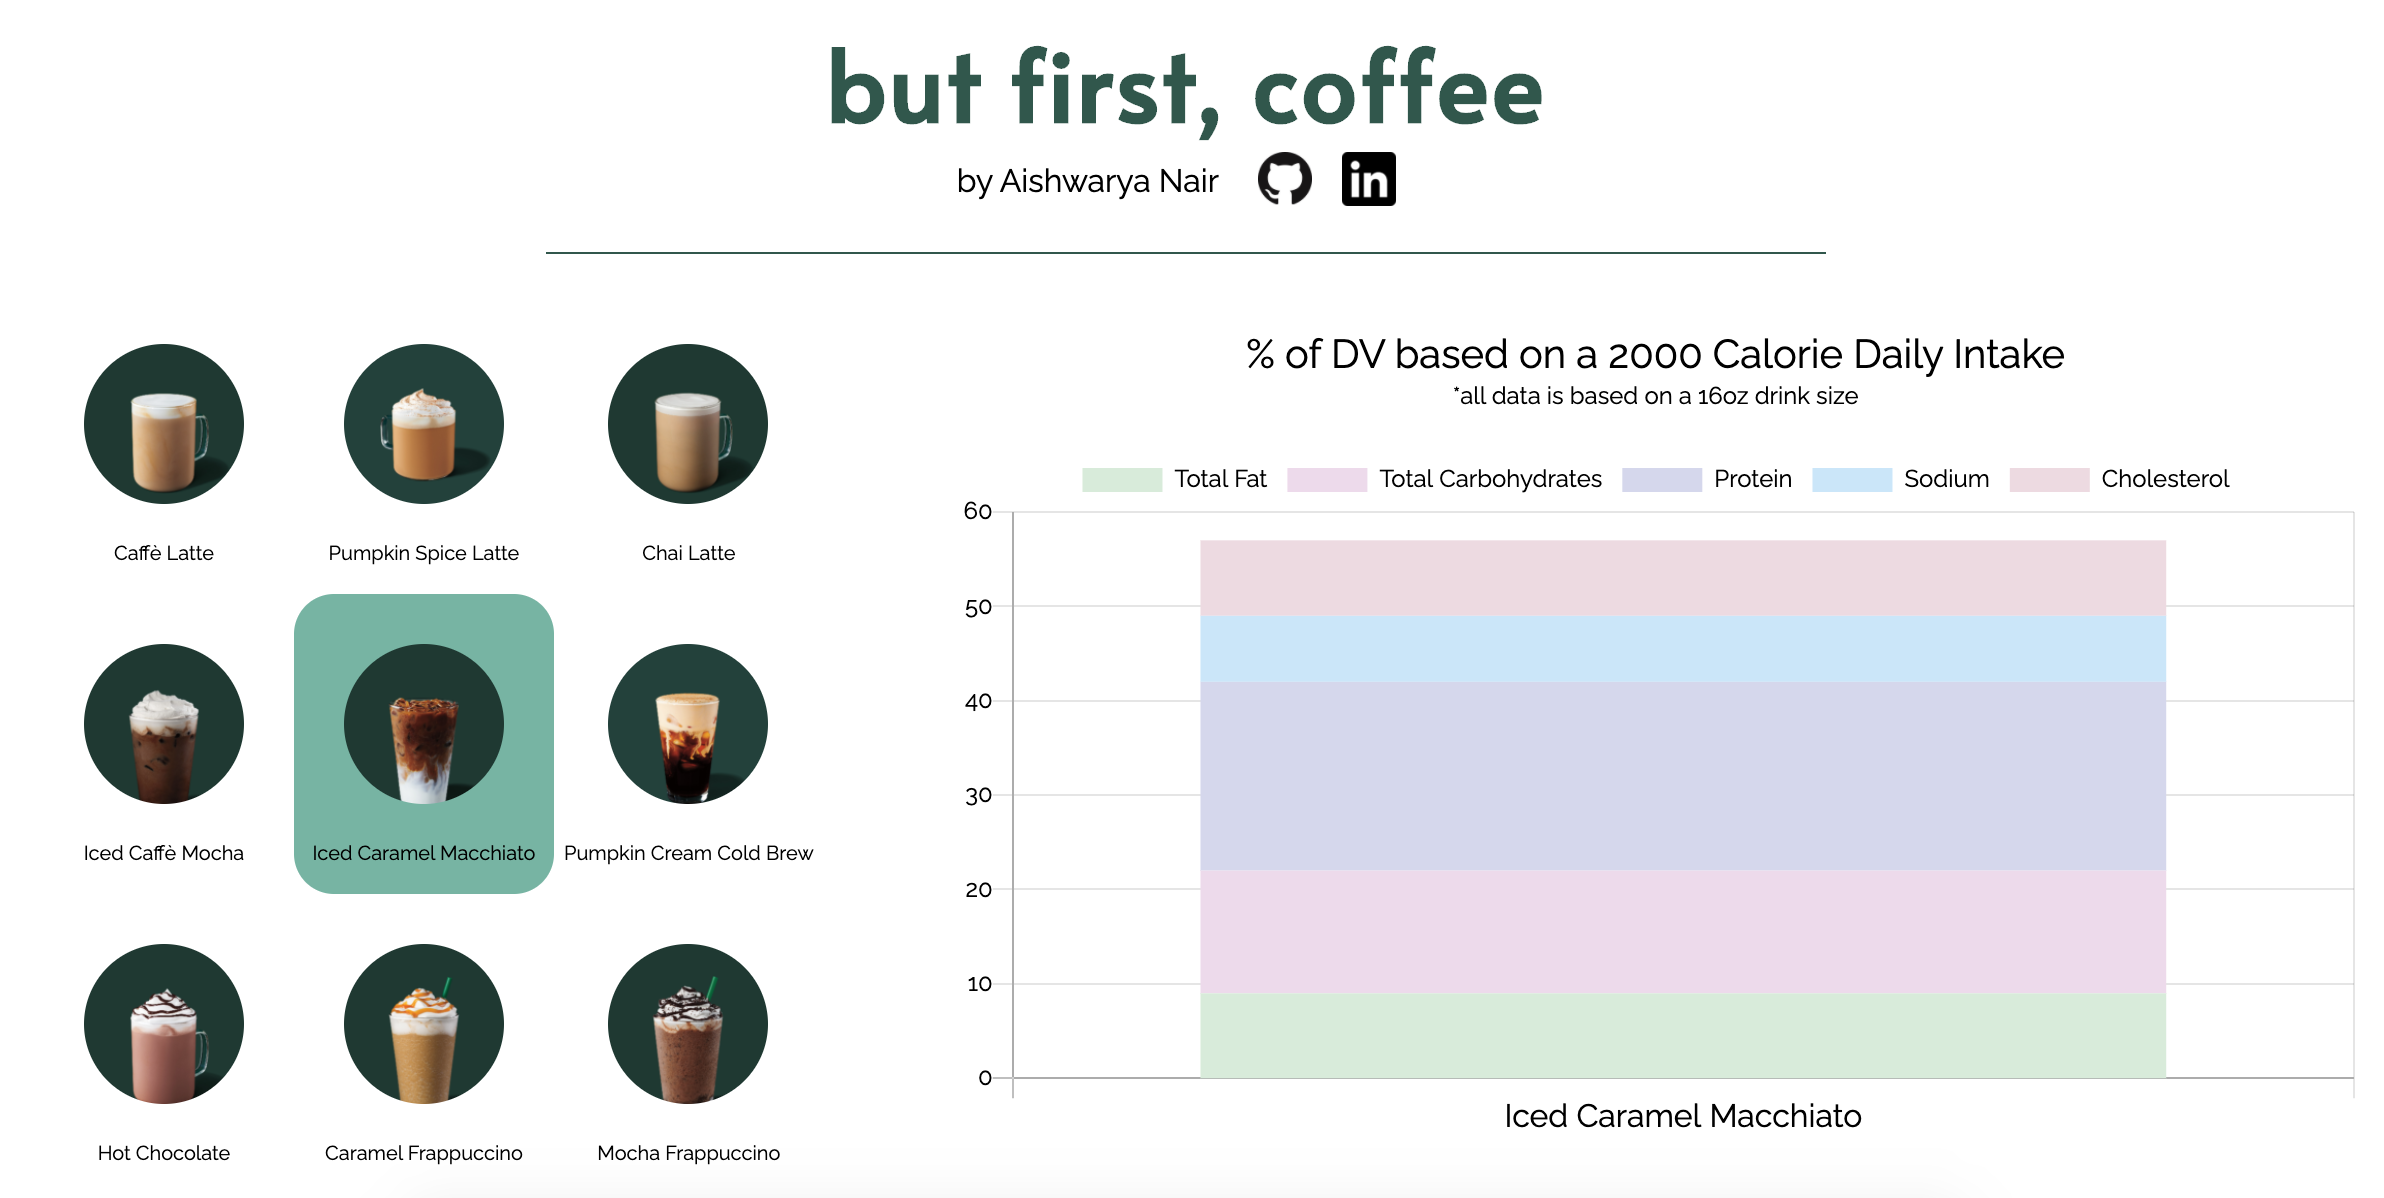
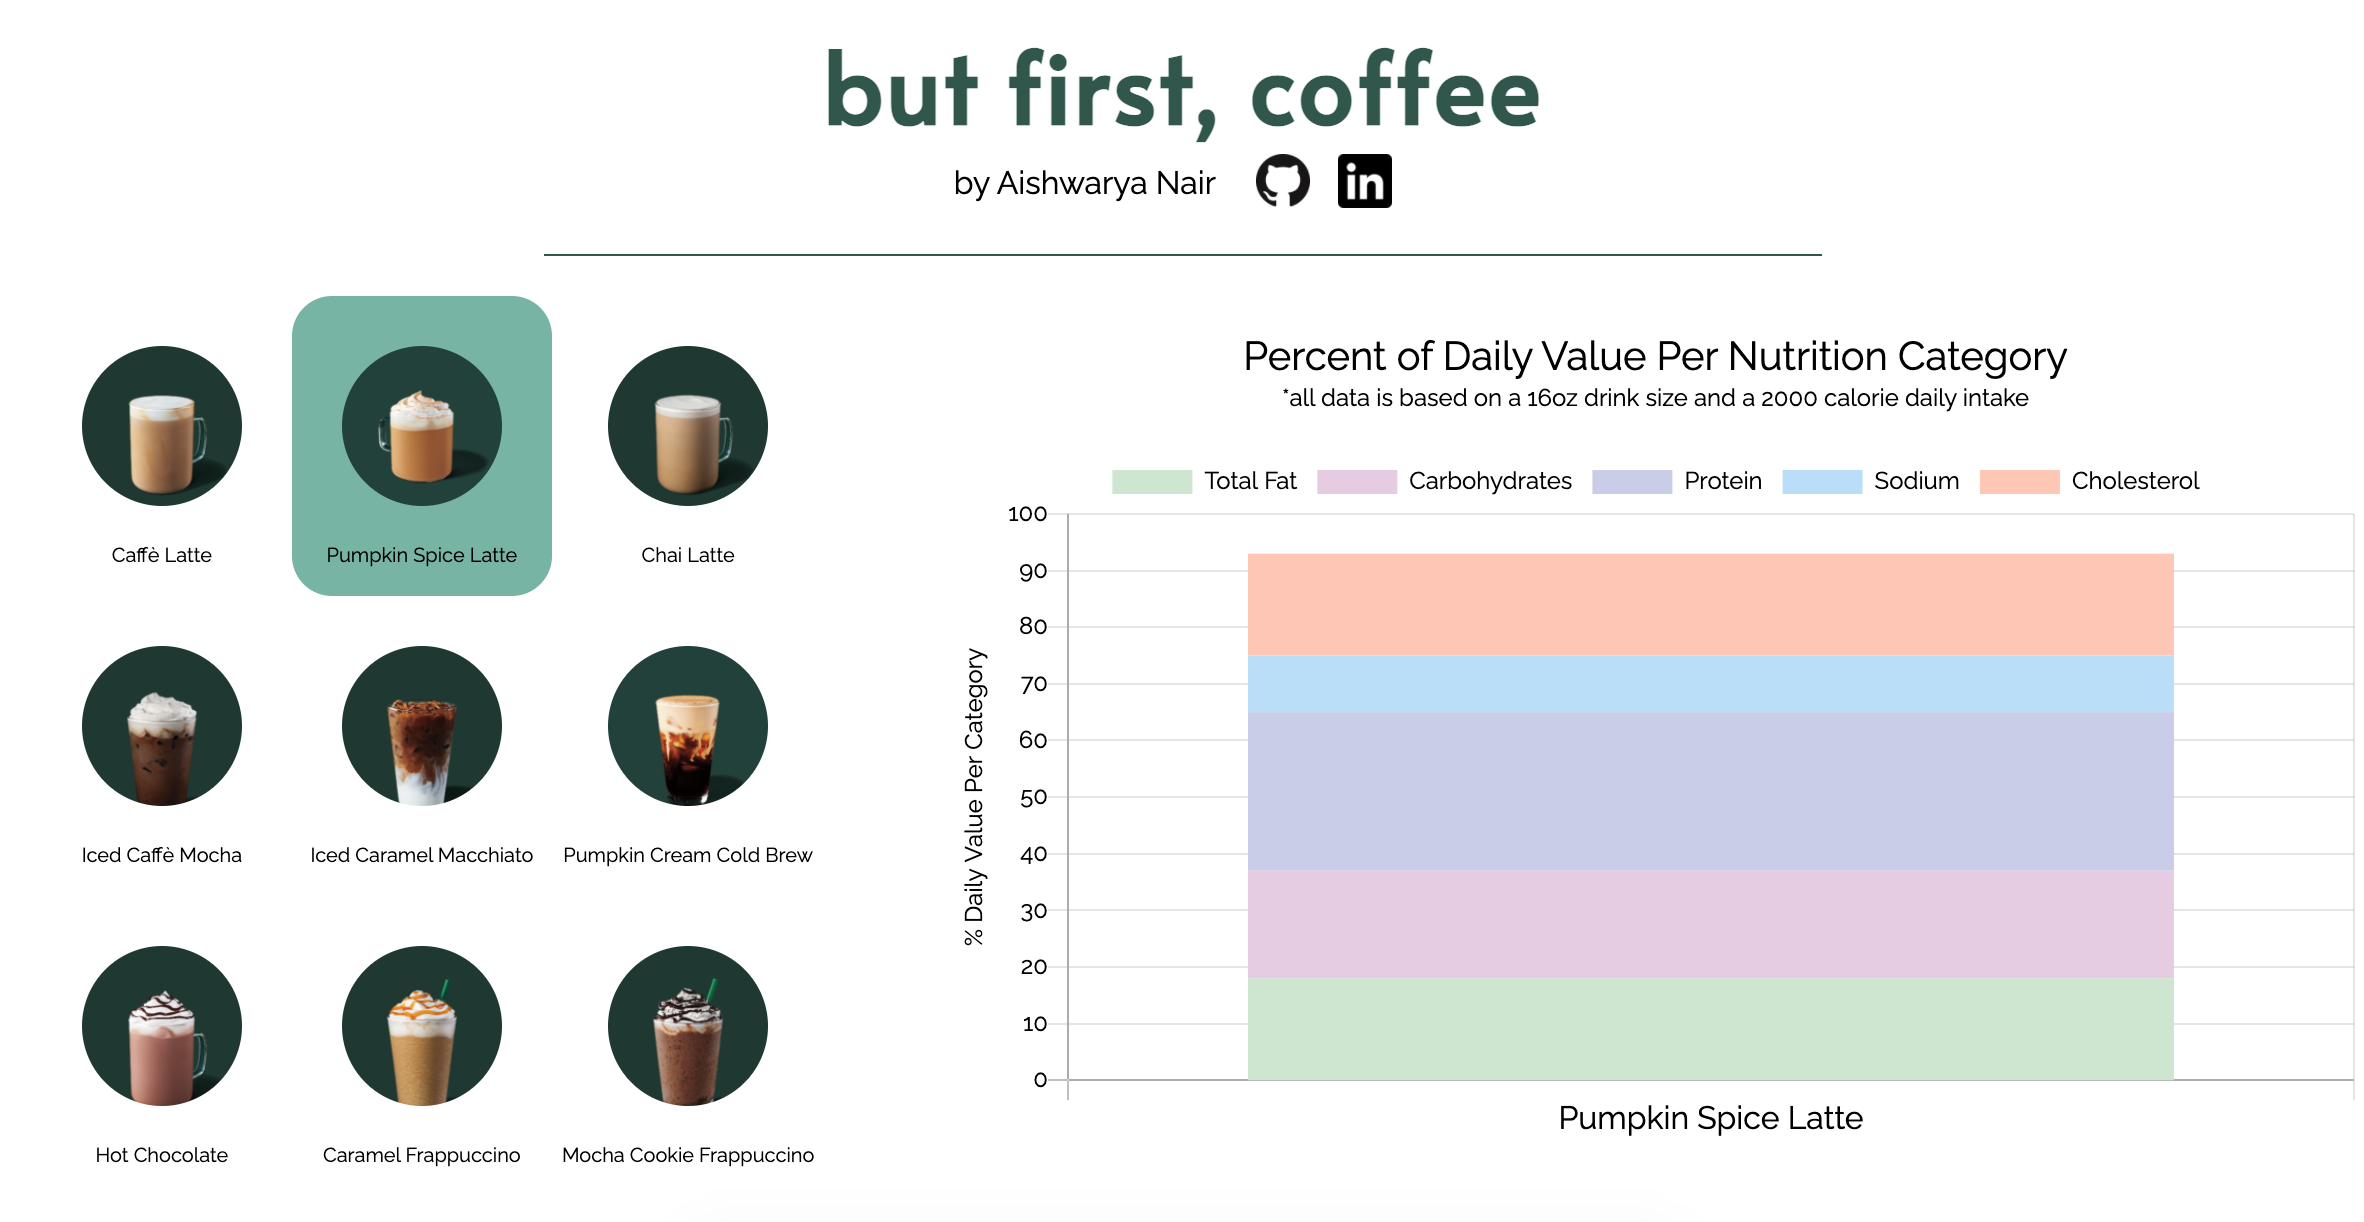
Edit Readme

diff --git a/index.html b/index.html
@@ -44,40 +44,40 @@
     <div class="main">
         <ul class="all-pics">
             <li class="indiv-image selected">
-                <img class="click-me" src="./images/latte.jpg" alt="Caffè Latte">
+                <img class="click-me" src="./images/latte.jpg" alt="latte">
                 <h1 class="caption">Caffè Latte</h1>
             </li>
             <li class="indiv-image">
-                <img class="click-me" src="./images/PSL.jpg" alt="Pumpkin Spice Latte">
+                <img class="click-me" src="./images/PSL.jpg" alt="psl">
                 <h1 class="caption">Pumpkin Spice Latte</h1>
             </li>
             <li class="indiv-image">
-                <img class="click-me" src="./images/chai.jpg" alt="Chai Latte">
+                <img class="click-me" src="./images/chai.jpg" alt="chai">
                 <h1 class="caption">Chai Latte</h1>
             </li>
             <li class="indiv-image">
-                <img class="click-me" src="./images/iced_mocha.jpg" alt="Iced Caffè Mocha">
+                <img class="click-me" src="./images/iced_mocha.jpg" alt="mocha">
                 <h1 class="caption">Iced Caffè Mocha</h1>
             </li>
             <li class="indiv-image">
-                <img class="click-me" src="./images/caramel_macchiato.jpg" alt="Iced Caramel Macchiato">
+                <img class="click-me" src="./images/caramel_macchiato.jpg" alt="caramel_macchiato">
                 <h1 class="caption">Iced Caramel Macchiato</h1>
             </li>
             <li class="indiv-image">
-                <img class="click-me" src="./images/pumpkin_cold_brew.jpg" alt="Pumpkin Cream Cold Brew">
+                <img class="click-me" src="./images/pumpkin_cold_brew.jpg" alt="pumpkin_cold_brew">
                 <h1 class="caption">Pumpkin Cream Cold Brew</h1>
             </li>
             <li class="indiv-image">
-                <img class="click-me" src="./images/hot_chocolate.jpg" alt="Hot Chocolate">
+                <img class="click-me" src="./images/hot_chocolate.jpg" alt="hot_chocolate">
                 <h1 class="caption">Hot Chocolate</h1>
             </li>
             <li class="indiv-image">
-                <img class="click-me" src="./images/caramel_frap.jpg" alt="Caramel Frappuccino">
+                <img class="click-me" src="./images/caramel_frap.jpg" alt="caramel_frap">
                 <h1 class="caption">Caramel Frappuccino</h1>
             </li>
             <li class="indiv-image">
-                <img class="click-me" src="./images/mocha_cookie.jpg" alt="Mocha Cookie Crumble Frappuccino">
-                <h1 class="caption">Mocha Frappuccino</h1>
+                <img class="click-me" src="./images/mocha_cookie.jpg" alt="cookie_frap">
+                <h1 class="caption">Mocha Cookie Frappuccino</h1>
             </li>
         </ul>
 

diff --git a/graph.js b/graph.js
@@ -67,7 +67,7 @@ const caramel_frap = {
     protein: [8]
 };
 const cookie_frap = {
-    name: ['Mocha Cookie Crumble Frappuccino'],
+    name: ['Mocha Cookie Frappuccino'],
     fat: [19],
     cholesterol: [18],
     sodium: [11],
@@ -120,6 +120,11 @@ const myChart = new Chart(ctx, {
             }],
             yAxes: [{
                 stacked: true,
+                ticks: {
+                    beginAtZero: true,
+                    stepValue: 10,
+                    max: 100
+                },
                 scaleLabel: {
                     display: true,
                     labelString: '% Daily Value Per Category'
@@ -146,29 +151,11 @@ document.addEventListener('click', (event) => {
     if (selected) {
         selected.classList.remove('selected');
     }
-
-    if (event.target.alt === "Caffè Latte") {
-        drink = latte
-    } else if (event.target.alt === "Pumpkin Spice Latte") {
-        drink = psl
-    } else if (event.target.alt === "Chai Latte") {
-        drink = chai
-    } else if (event.target.alt === "Iced Caffè Mocha") {
-        drink = mocha
-    } else if (event.target.alt === "Iced Caramel Macchiato") {
-        drink = caramel_macchiato
-    } else if (event.target.alt === "Pumpkin Cream Cold Brew") {
-        drink = pumpkin_cold_brew
-    } else if (event.target.alt === "Hot Chocolate") {
-        drink = hot_chocolate
-    } else if (event.target.alt === "Caramel Frappuccino") {
-        drink = caramel_frap
-    } else if (event.target.alt === "Mocha Cookie Crumble Frappuccino") {
-        drink = cookie_frap
-    }
     event.target.parentElement.classList.add("selected");
 
-    myChart.data.labels = drink.name;
+    drink = eval(event.target.alt)
+    
+    myChart.data.labels = drink.name;    
     myChart.data.datasets = [
         {
             label: 'Total Fat',

diff --git a/README.md b/README.md
@@ -21,10 +21,55 @@ Live site: [But First, Coffee](https://aishnair22.github.io/but-first-coffee/)
 ## Functionality
 * Introduction Modal to describe the website to users
 * Users can choose from 9 drinks
-* Graph renders with new data for each drink
+* Users can hover over the graph to get the exact percentage data values
+* Graph re-renders with new data for each drink
+
+### Code for Graph Re-render
+I added a click event listener to each of the drink images. Depending on the alt attribute on the image that was clicked, I reassigned the drink variable to evaluated event.target.alt, which corresponds to the correct drink object that had been defined earlier in the file. I then reassign the chart data and labels, and call the update method that is part of the Chart.js API.
+
+<pre><code>
+    document.addEventListener('click', (event) => {
+        if (!event.target.matches('.click-me')) return; 
+
+        drink = eval(event.target.alt)
+        
+        myChart.data.labels = drink.name;    
+        myChart.data.datasets = [
+            {
+                label: 'Total Fat',
+                data: drink.fat,
+                backgroundColor: '#cde5ce',
+            },
+            {
+                label: 'Carbohydrates',
+                data: drink.carbs,
+                backgroundColor: '#e6cbe3',
+            },
+            {
+                label: 'Protein',
+                data: drink.protein,
+                backgroundColor: '#c9cce8',
+            },
+            {
+                label: 'Sodium',
+                data: drink.sodium,
+                backgroundColor: '#b9def8',
+            },
+            {
+                label: 'Cholesterol',
+                data: drink.cholesterol,
+                backgroundColor: '#ffc6b3',
+            }
+        ]
+        myChart.update();
+    }, false);
+</code></pre>
 
 ### Intro Modal
 <img src="./images/intro-modal.png" alt="intro modal">
 
 ### Main Page
 <img src="./images/main-page.png" alt="main page">
+
+### Website Tour
+<img src="./images/main-page.gif" alt="main page">
